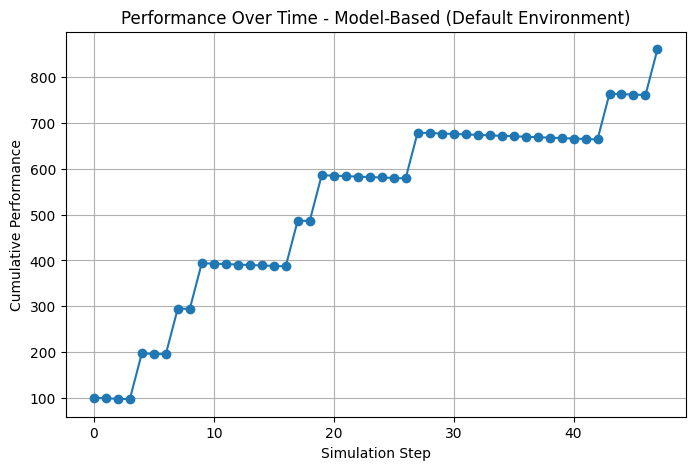
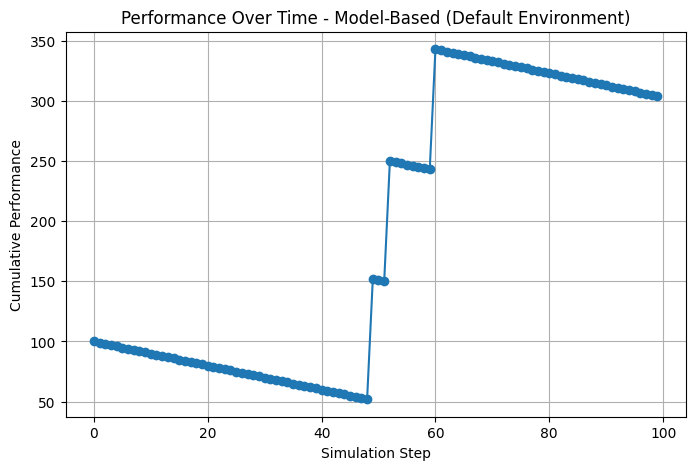
Update visualizations and improve agent initialization in simulation scripts

diff --git a/src/simulation/simulation.py b/src/simulation/simulation.py
@@ -25,6 +25,7 @@ Visualizations produced for each of two environments (default and worst-case) in
 All figures are saved with descriptive filenames.
 """
 
+import os
 import random
 import statistics
 import matplotlib.pyplot as plt
@@ -41,7 +42,7 @@ from src.agents.my_rational_agent import RationalVacuumAgent as RationalAgent
 # Environment Factory Functions
 # --------------------------------------------------
 
-def default_env_factory(env_width=5, env_height=5, inner_dirt_prob=0.75, inner_obs_prob=0.25,
+def default_env_factory(env_width=5, env_height=5, inner_dirt_prob=0.5, inner_obs_prob=0.3,
                         boundary_dirt_prob=0.1, boundary_obs_prob=0.1, **kwargs):
     """
     Factory for the default environment with random dirt and obstacles.
@@ -73,33 +74,31 @@ def default_env_factory(env_width=5, env_height=5, inner_dirt_prob=0.75, inner_o
 
 def create_worst_case_environment():
     """
-    Create a more genuinely maze-like 5x5 grid environment that is challenging
-    but not impossible for the randomized agent to navigate.
-    (Addresses part 3 of Exercise 2.14.)
-
-    The layout forms a corridor around the edges, forcing the agent to traverse
-    a winding path to reach corners, which are marked with dirt.
+    Creates a 5x5 grid with:
+      - obstacles in row=1 and row=3, columns=1..3
+      - dirt in each corner
+      - NO perimeter walls, so we have a corridor around the outer columns
     """
     width, height = 5, 5
     env = ModifiedVacuumEnvironment(width, height)
-
-    # Maze-like obstacles forming a blocked center with a corridor around the perimeter.
-    # This arrangement creates a ring-like path:
-    #   (1,1), (1,2), (1,3)
-    #   (3,1), (3,2), (3,3)
-    obstacle_locations = [
-        (1, 1), (1, 2), (1, 3),
-        (3, 1), (3, 2), (3, 3)
-    ]
-    for loc in obstacle_locations:
-        env.add_obstacle(loc)
-
-    # Place dirt in the four corners, making them hard to reach.
-    corner_dirt_locations = [(0, 0), (0, 4), (4, 0), (4, 4)]
+    
+    # Place obstacles in columns 1 and 3 for rows 1..3 (the "middle" three rows).
+    for row in [1, 2, 3]:
+        env.add_obstacle((1, row))  # Column=1
+        env.add_obstacle((3, row))  # Column=3
+    
+    # Place dirt in each of the four corners
+    corner_dirt_locations = [(0, 0), (0, height - 1),
+                             (width - 1, 0), (width - 1, height - 1)]
     for loc in corner_dirt_locations:
-        env.add_dirt(loc)
-
+        # Directly add a Dirt object at the corner
+        dirt = Dirt()
+        dirt.location = loc
+        env.things.append(dirt)
+        env.dirt_locations.add(loc)
+    
     return env
+    
 
 def worst_case_env_factory(**kwargs):
     """
@@ -140,14 +139,17 @@ def visualize_environment_state(env, title="Environment State", save_filename=No
             ax.add_patch(rect)
     # Mark agent locations, if any.
     for agent in env.agents:
-        ax.plot(agent.location[0] + 0.5, agent.location[1] + 0.5, 'ko', markersize=15)
+        if hasattr(agent, 'location') and agent.location is not None:
+            ax.plot(agent.location[0] + 0.5, agent.location[1] + 0.5, 'ko', markersize=15)
     ax.set_xlim(0, env.width)
     ax.set_ylim(0, env.height)
     ax.set_aspect('equal')
     plt.title(title)
     plt.axis('off')
     if save_filename:
-        plt.savefig(save_filename, bbox_inches='tight')
+        # Save to 'visualizations/initial_states/'
+        outpath = os.path.join("visualizations", "initial_states", save_filename)
+        plt.savefig(outpath, bbox_inches='tight')
     plt.show()
 
 # --------------------------------------------------
@@ -204,7 +206,9 @@ def plot_bar_chart(results, env_label="default"):
     plt.xlabel('Agent Type')
     plt.ylabel('Average Performance')
     plt.title(f'Agent Performance Comparison ({env_label.capitalize()} Environment)')
-    plt.savefig(f"bar_chart_{env_label}.png", bbox_inches="tight")
+    # Save to 'visualizations/bar_charts/'
+    outpath = os.path.join("visualizations", "bar_charts", f"bar_chart_{env_label}.png")
+    plt.savefig(outpath, bbox_inches="tight")
     plt.show()
 
 def compare_agents_boxplot(env_factory, trials=10, steps=100, **env_kwargs):
@@ -229,7 +233,9 @@ def compare_agents_boxplot(env_factory, trials=10, steps=100, **env_kwargs):
     plt.ylabel('Performance Score')
     title = f"Performance Distribution per Agent Type ({env_kwargs.get('env_label', 'default').capitalize()} Environment)"
     plt.title(title)
-    plt.savefig(f"boxplot_{env_kwargs.get('env_label', 'default')}.png", bbox_inches="tight")
+    # Save to 'visualizations/box_plots/'
+    outpath = os.path.join("visualizations", "box_plots", f"boxplot_{env_kwargs.get('env_label', 'default')}.png")
+    plt.savefig(outpath, bbox_inches="tight")
     plt.show()
     return data
 
@@ -272,7 +278,9 @@ def plot_time_series(time_series, agent_name, env_label="default"):
     plt.title(f'Performance Over Time - {agent_name} ({env_label.capitalize()} Environment)')
     plt.grid(True)
     filename = f"linechart_{agent_name.replace(' ', '_')}_{env_label}.png"
-    plt.savefig(filename, bbox_inches="tight")
+    # Save to 'visualizations/line_charts/'
+    outpath = os.path.join("visualizations", "line_charts", filename)
+    plt.savefig(outpath, bbox_inches="tight")
     plt.show()
 
 # --------------------------------------------------
@@ -315,7 +323,9 @@ def plot_heatmap(data, agent_name, env_label="default"):
     plt.ylabel('Y Coordinate')
     plt.colorbar(label='Visit Count')
     filename = f"heatmap_{agent_name.replace(' ', '_')}_{env_label}.png"
-    plt.savefig(filename, bbox_inches="tight")
+    # Save to 'visualizations/heatmaps/'
+    outpath = os.path.join("visualizations", "heatmaps", filename)
+    plt.savefig(outpath, bbox_inches="tight")
     plt.show()
 
 # --------------------------------------------------

diff --git a/src/simulation/visualize_two_location.py b/src/simulation/visualize_two_location.py
@@ -1,4 +1,4 @@
-# visualize_two_location_step_by_step.py
+# visualize_two_location.py
 """
 Demonstrates a step-by-step animation of the two-location vacuum world (Exercise 2.11),
 showing both cells dirty at the initial frame. We use an init_func so the agent
@@ -34,6 +34,8 @@ def visualize_two_location_step_by_step(num_steps=3):
 
     agent = ReflexVacuumAgent()
     env.add_thing(agent, (0, 0))
+    # Ensure the agent has a location attribute.
+    agent.location = (0, 0)
 
     fig, ax = plt.subplots(figsize=(5, 3))
 
@@ -74,7 +76,7 @@ def visualize_two_location_step_by_step(num_steps=3):
                     fontsize=18, color='white')
 
         # Mark agent
-        if agent.location is not None:
+        if hasattr(agent, 'location') and agent.location is not None:
             ax.plot(agent.location[0] + 0.5, agent.location[1] + 0.5,
                     'ko', markersize=15)
 

diff --git a/src/environment/environment.py b/src/environment/environment.py
@@ -18,7 +18,6 @@ class ModifiedVacuumEnvironment(XYEnvironment):
     def __init__(self, width=5, height=5):
         super().__init__(width, height)
         self.dirt_locations = set()
-        self.add_walls()
 
     def add_dirt(self, location):
         """
